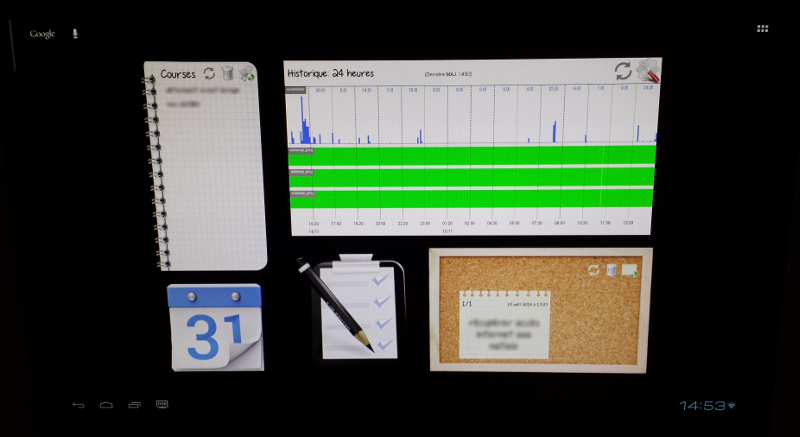
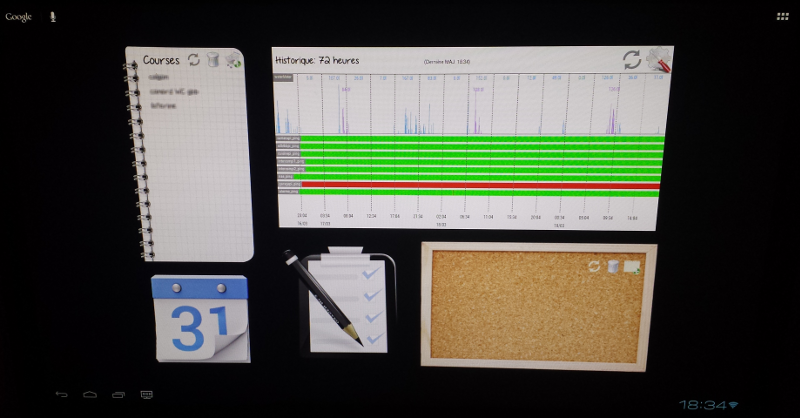
screenshots update in android graph viewer widget page

diff --git a/pages/GraphViewerWidget/index.html b/pages/GraphViewerWidget/index.html
@@ -294,11 +294,11 @@ Finally, the retrieved settings values are managed in a <code>GraphSettings</cod
 
 <h3 id="results"> Results</h3>
 
-<p>The android widget looks like this:</p>
+<p>Below is a capture of the android widget, showing the daily water consumption (in blue), the specific water consumption in predefined time slots (in purple), and the view of ping statuses of the various raspberry pi around the house:</p>
 
 <p><img src="http://jheyman.github.io/blog/assets/images/GraphViewerWidget/widget_screenshot.png" alt="widget screenshot" /></p>
 
-<p>And integrated in <a href="http://jheyman.github.io/blog/pages/HomeHubTablet">home hub tablet</a>:</p>
+<p>And here it is integrated in <a href="http://jheyman.github.io/blog/pages/HomeHubTablet">home hub tablet</a>:</p>
 
 <p><img src="http://jheyman.github.io/blog/assets/images/GraphViewerWidget/integration_in_tablet.png" alt="integration" /></p>
 
